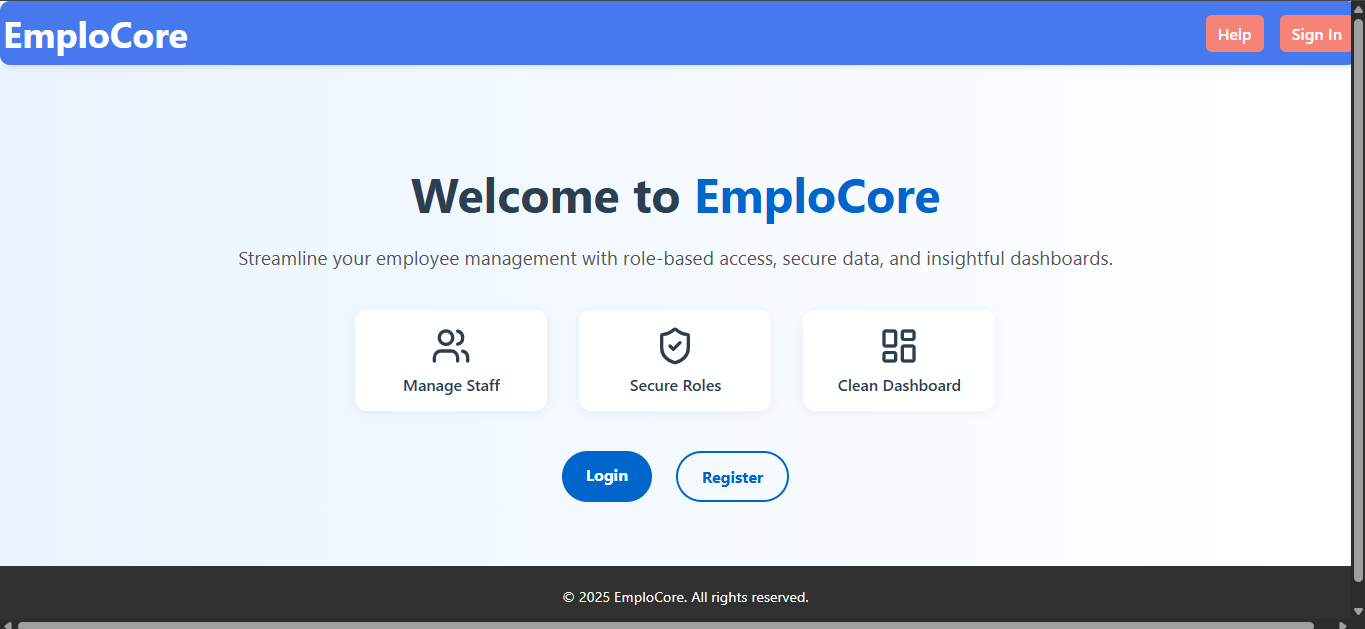
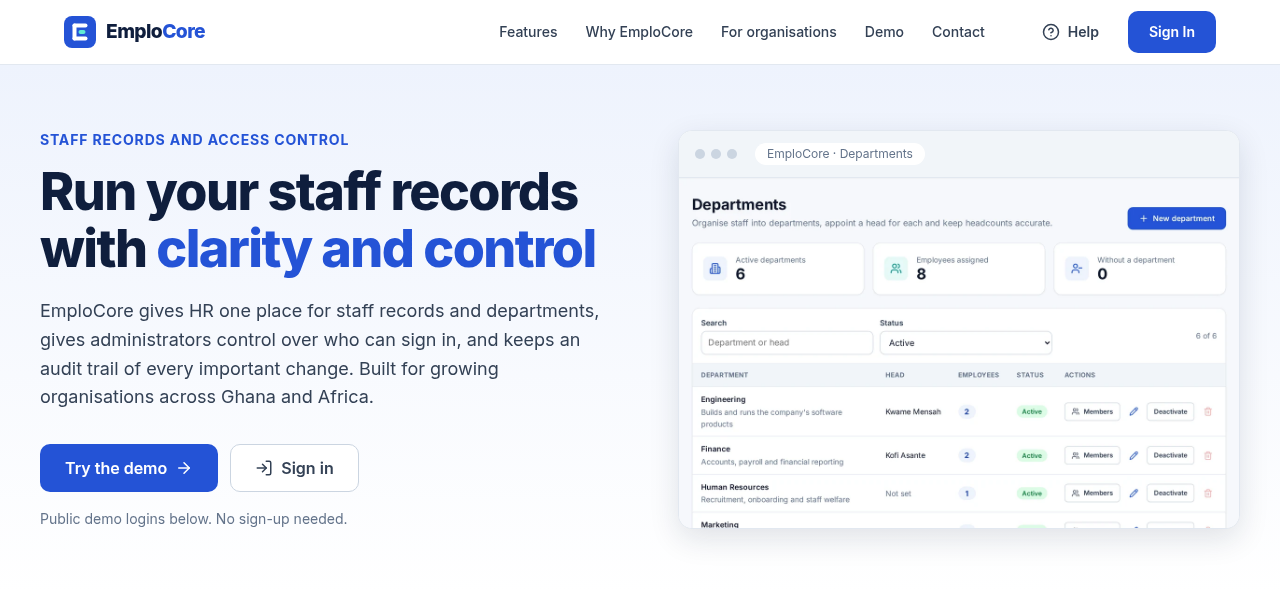
EmploCore card: production-ready product with full stack detail, live demo + frontend/backend links, fresh screenshot

diff --git a/Projects.html b/Projects.html
@@ -128,30 +128,32 @@
 
         <!-- EmploCore -->
         <div class="project-card">
-          <img src="assets/homepageEmplocore.png" alt="EmploCore" class="project-image">
+          <img src="assets/homepageEmplocore.png" alt="EmploCore employee management platform" class="project-image">
           <div class="project-content">
             <h3 class="project-title">EmploCore</h3>
             <p class="project-description">
-              Full-stack employee management system with authentication, RBAC(Role-Based Access Control), dashboards, MySQL backend, and deployable architecture.
+              Production-ready employee management product with secure sign-in, role-based access and an audit trail. React 19 + React Router + Axios (plain CSS) frontend on Vercel, Node.js/Express REST API on Render, MySQL 8 on Aiven over TLS.
             </p>
             <ul class="project-features">
-              <li>JWT authentication & protected routes</li>
-              <li>Role-based dashboards (Admin, HR, Employee)</li>
-              <li>MySQL database with complex queries</li>
-              <li>Responsive design across all devices</li>
-              <li>Production-ready deployment</li>
+              <li>JWT + bcrypt auth with server-side logout</li>
+              <li>Admin, HR and Employee roles; account activation and admin password reset</li>
+              <li>Departments management and audit logs</li>
+              <li>REST API with validation, rate limiting and Helmet</li>
+              <li>Raw SQL via mysql2, versioned migrations, automated tests</li>
             </ul>
             <div class="project-tags">
-              <span class="project-tag">MySQL</span>
-              <span class="project-tag">Express</span>
-              <span class="project-tag">React</span>
+              <span class="project-tag">React 19</span>
               <span class="project-tag">Node.js</span>
+              <span class="project-tag">Express</span>
+              <span class="project-tag">MySQL 8</span>
               <span class="project-tag">JWT Auth</span>
               <span class="project-tag">RBAC</span>
             </div>
-            <div class="project-links">
-              <a href="https://github.com/jmacoy52/emplocore-backend-v2" target="_blank" class="btn btn-outline">GitHub</a>
-              <a href="#" onclick="openModal('emplocore'); return false;" class="btn btn-primary">View Screenshots</a>
+            <div class="project-links" style="flex-wrap: wrap;">
+              <a href="https://emplocore.vercel.app" target="_blank" rel="noopener" class="btn btn-primary">Live Demo</a>
+              <a href="https://github.com/jmacoy52/employee-management-system-frontend" target="_blank" rel="noopener" class="btn btn-outline">Frontend</a>
+              <a href="https://github.com/jmacoy52/employee-management-backend" target="_blank" rel="noopener" class="btn btn-outline">Backend</a>
+              <a href="#" onclick="openModal('emplocore'); return false;" class="btn btn-outline">Screenshots</a>
             </div>
           </div>
         </div>

diff --git a/index.html b/index.html
@@ -204,21 +204,22 @@
 
         <!-- EmploCore -->
         <div class="project-card">
-          <img src="assets/homepageEmplocore.png" alt="EmploCore" class="project-image" onclick="openModal('emplocore')">
+          <img src="assets/homepageEmplocore.png" alt="EmploCore employee management platform" class="project-image" onclick="openModal('emplocore')">
           <div class="project-content">
             <h3 class="project-title">EmploCore</h3>
             <p class="project-description">
-              Full-stack employee management system with authentication, RBAC, dashboards, MySQL backend, and deployable architecture.
+              Production-ready employee management product: JWT + bcrypt auth, role-based access (Admin, HR, Employee), account controls, departments and audit logs. React on Vercel, Express REST API on Render, MySQL 8 on Aiven (TLS) with versioned migrations.
             </p>
             <div class="project-tags">
-              <span class="project-tag">MySQL</span>
+              <span class="project-tag">React 19</span>
               <span class="project-tag">Express</span>
-              <span class="project-tag">React</span>
+              <span class="project-tag">MySQL 8</span>
               <span class="project-tag">Node.js</span>
             </div>
-            <div class="project-links">
-              <a href="https://github.com/jmacoy52/emplocore-backend-v2" target="_blank" class="btn btn-outline btn-small">GitHub</a>
-              <button class="btn btn-primary btn-small" onclick="openModal('emplocore')">View</button>
+            <div class="project-links" style="flex-wrap: wrap;">
+              <a href="https://emplocore.vercel.app" target="_blank" rel="noopener" class="btn btn-primary btn-small">Live Demo</a>
+              <a href="https://github.com/jmacoy52/employee-management-system-frontend" target="_blank" rel="noopener" class="btn btn-outline btn-small">GitHub</a>
+              <button class="btn btn-outline btn-small" onclick="openModal('emplocore')">View</button>
             </div>
           </div>
         </div>
